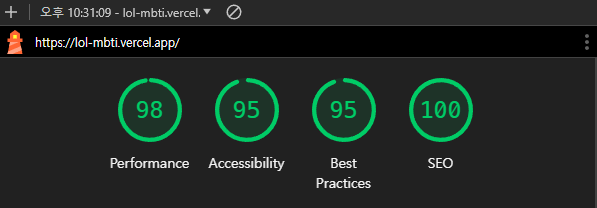
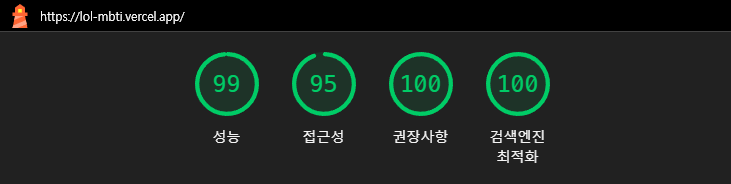
doc: VE 적용 내용 추가

diff --git a/public/markdown/project/0.md b/public/markdown/project/0.md
@@ -1,8 +1,11 @@
 ### 기술 스택 📚
 - ```Next.js```: 정적 사이트 생성(SSG)이 검색 엔진 최적화와 빠른 페이지 제공에 강력하다는 사실과 빠른 결과 페이지 제공을 위해 SSG가 지원되며 MBTI 유형마다 각각 다른 경로를 보여줘야 했기 때문에 간편하게 동적 라우팅을 지원해주고, 가장 커뮤니티가 활발하여 여러 문제 해결에 있어서 빠른 대응이 가능했습니다.
   - **Next 11 -> 14 마이그레이션 [과정 보러가기](https://yong-nyong.tistory.com/84)**
+
 - ```TypeScript```: 정적 타입 체크를 제공하여 코드의 안정성을 높여 주고,  코드를 작성하는 동안 객체의 프로퍼티를 쉽게 확인할 수 있어서 개발을 더 효율적으로 할 수 있었습니다.
+
 - ```styled-components```: 컴포넌트 단위의 스타일링을 가능하고 동적 스타일링을 간편하게 해주며, 재사용 가능한 컴포넌트를 만들 때 도움이 되었습니다.
+- ```vanilla-extract``` [과정 보러가기](https://yong-nyong.tistory.com/92): 서버 컴포넌트를 지원하지 않는 `styled-components`의 문제점을 해결하기 위해 도입했습니다. `CSS-in-TS` 방식으로 기존 `CSS-in-JS` 방식을 가져갈 수 있었고 제로 런타임 환경에서 동작함으로써 번들 크기가 **10% 감소**하는 결과를 볼 수 있었습니다.
 
 ### 주요 기능 구현 💡
 
@@ -13,6 +16,7 @@
 
 #### 결과 캡쳐 및 저장 구현 및 개선 [상세 내용 링크](https://yongvelpoer.gitbook.io/lol-mbti/undefined-2/undefined-1/undefined-1)
 - 테스트 결과 화면을 캡쳐하고 공유할 수 있도록 기능을 구현했습니다.
+
 - 기존에는 ```html2canvas```만을 이용해서 ```DOM```을 캡쳐하고 ```blob```을 통해 해당 캡쳐 영역을 새로운 창을 열게 하고 새로운 창에서 이미지를 ```context menu```를 통해서 저장할 수 있도록 했었습니다.
 - 하지만 사용자들이 결과를 공유하는 모습을 보면 대부분 **결과 저장 기능을 사용하지 않고** 직접 캡쳐를 하고 공유를 하는 상황을 발견했습니다.
 - 기존의 방식으로는 모바일에서 결과 저장을 진행할 시 **브라우저에 따라서 새로운 창이 열리지 않는다는 문제점**과 **사용자가 context menu를 열어서 저장**을 해야한다는 불편한 점이 있었습니다.
@@ -20,8 +24,12 @@
 
 #### 다크 모드 [관련 코드 링크](https://github.com/Yongveloper/LOL-MBTI/blob/main/src/hooks/useDarkMode.ts)
 - ```styled-components```, ```Context API```, ```Custom Hook```를 활용하여 사용자 경험을 향상시키기 위한 하나의 방법으로, 다크 모드를 도입하였습니다.
+
 - **Context API와 Custom Hook을 활용한 상태 관리**: 다크 모드와 라이트 모드 간의 전환을 관리하기 위해 ```Context API```를 사용하여 해결하고, ```Custom Hook```을 통해 모드를 전환하는 로직을 캡슐화하여 재사용성을 높였습니다. 
+
 - **로컬 스토리지를 활용한 모드 유지**: 사용자가 선택한 모드를 로컬 스토리지에 저장하여, 페이지를 새로 고침하거나 재방문할 때도 동일한 모드를 유지할 수 있도록 하였습니다. 이를 통해 사용자 경험을 향상시켰습니다.
+
+- **vanilla-extract 마이그레이션으로 인한 코드 변경**: `next-themes` 라이브러리를 도입해서 아주 적은 코드로 다크모드를 구현할 수 있었습니다. 사용자 로컬 모드와 로컬 스토리지에 따른 모드를 보여줍니다.
 
 #### 공유하기 [관련 블로그 포스팅 링크](https://yong-nyong.tistory.com/16)
 - **카카오톡 JavaScript SDK 활용**: 카카오에서 제공하는 JavaScript SDK를 이용하여 카카오톡 공유 버튼을 생성하고, 사용자가 버튼을 클릭하면 결과 내용을 공유할 수 있도록 구현했습니다.
@@ -44,10 +52,9 @@
 - 해당 서비스가 OP.GG 커뮤니티 **인기 게시물**에 등록되었으며, 유튜브 쇼츠에서 매우 좋은 반응을 얻었고, 광고 수익 **약 15만원**이 발생했습니다. [쇼츠 링크](https://youtube.com/shorts/LZLyd5KU7po?si=-y2TZzOvN79wt6C2)
 ![쇼츠 반응](/images/project/lolbti/short.gif)
 - 구글 애널리틱스 기준 페이지 뷰수 **약 95만** 뷰를 기록했습니다. (2023년 10월 기준)
-- "롤MBTI" 관련 검색 시 **평균 1순위** 노출에 성공하였습니다. (구글, 네이버, 다음, 빙)
 - Lighthouse 측정 결과
   - ```SEO```: **100**점
-  - ```성능```: **98**점
-  - ```Best Practices```: **95**점
+  - ```Best Practices```: **100**점
+  - ```성능```: **99**점
   - ```접근성```:  **95**점  
   ![lighthouse](/images/project/lolbti/lol-mbti-lighthouse.png)
